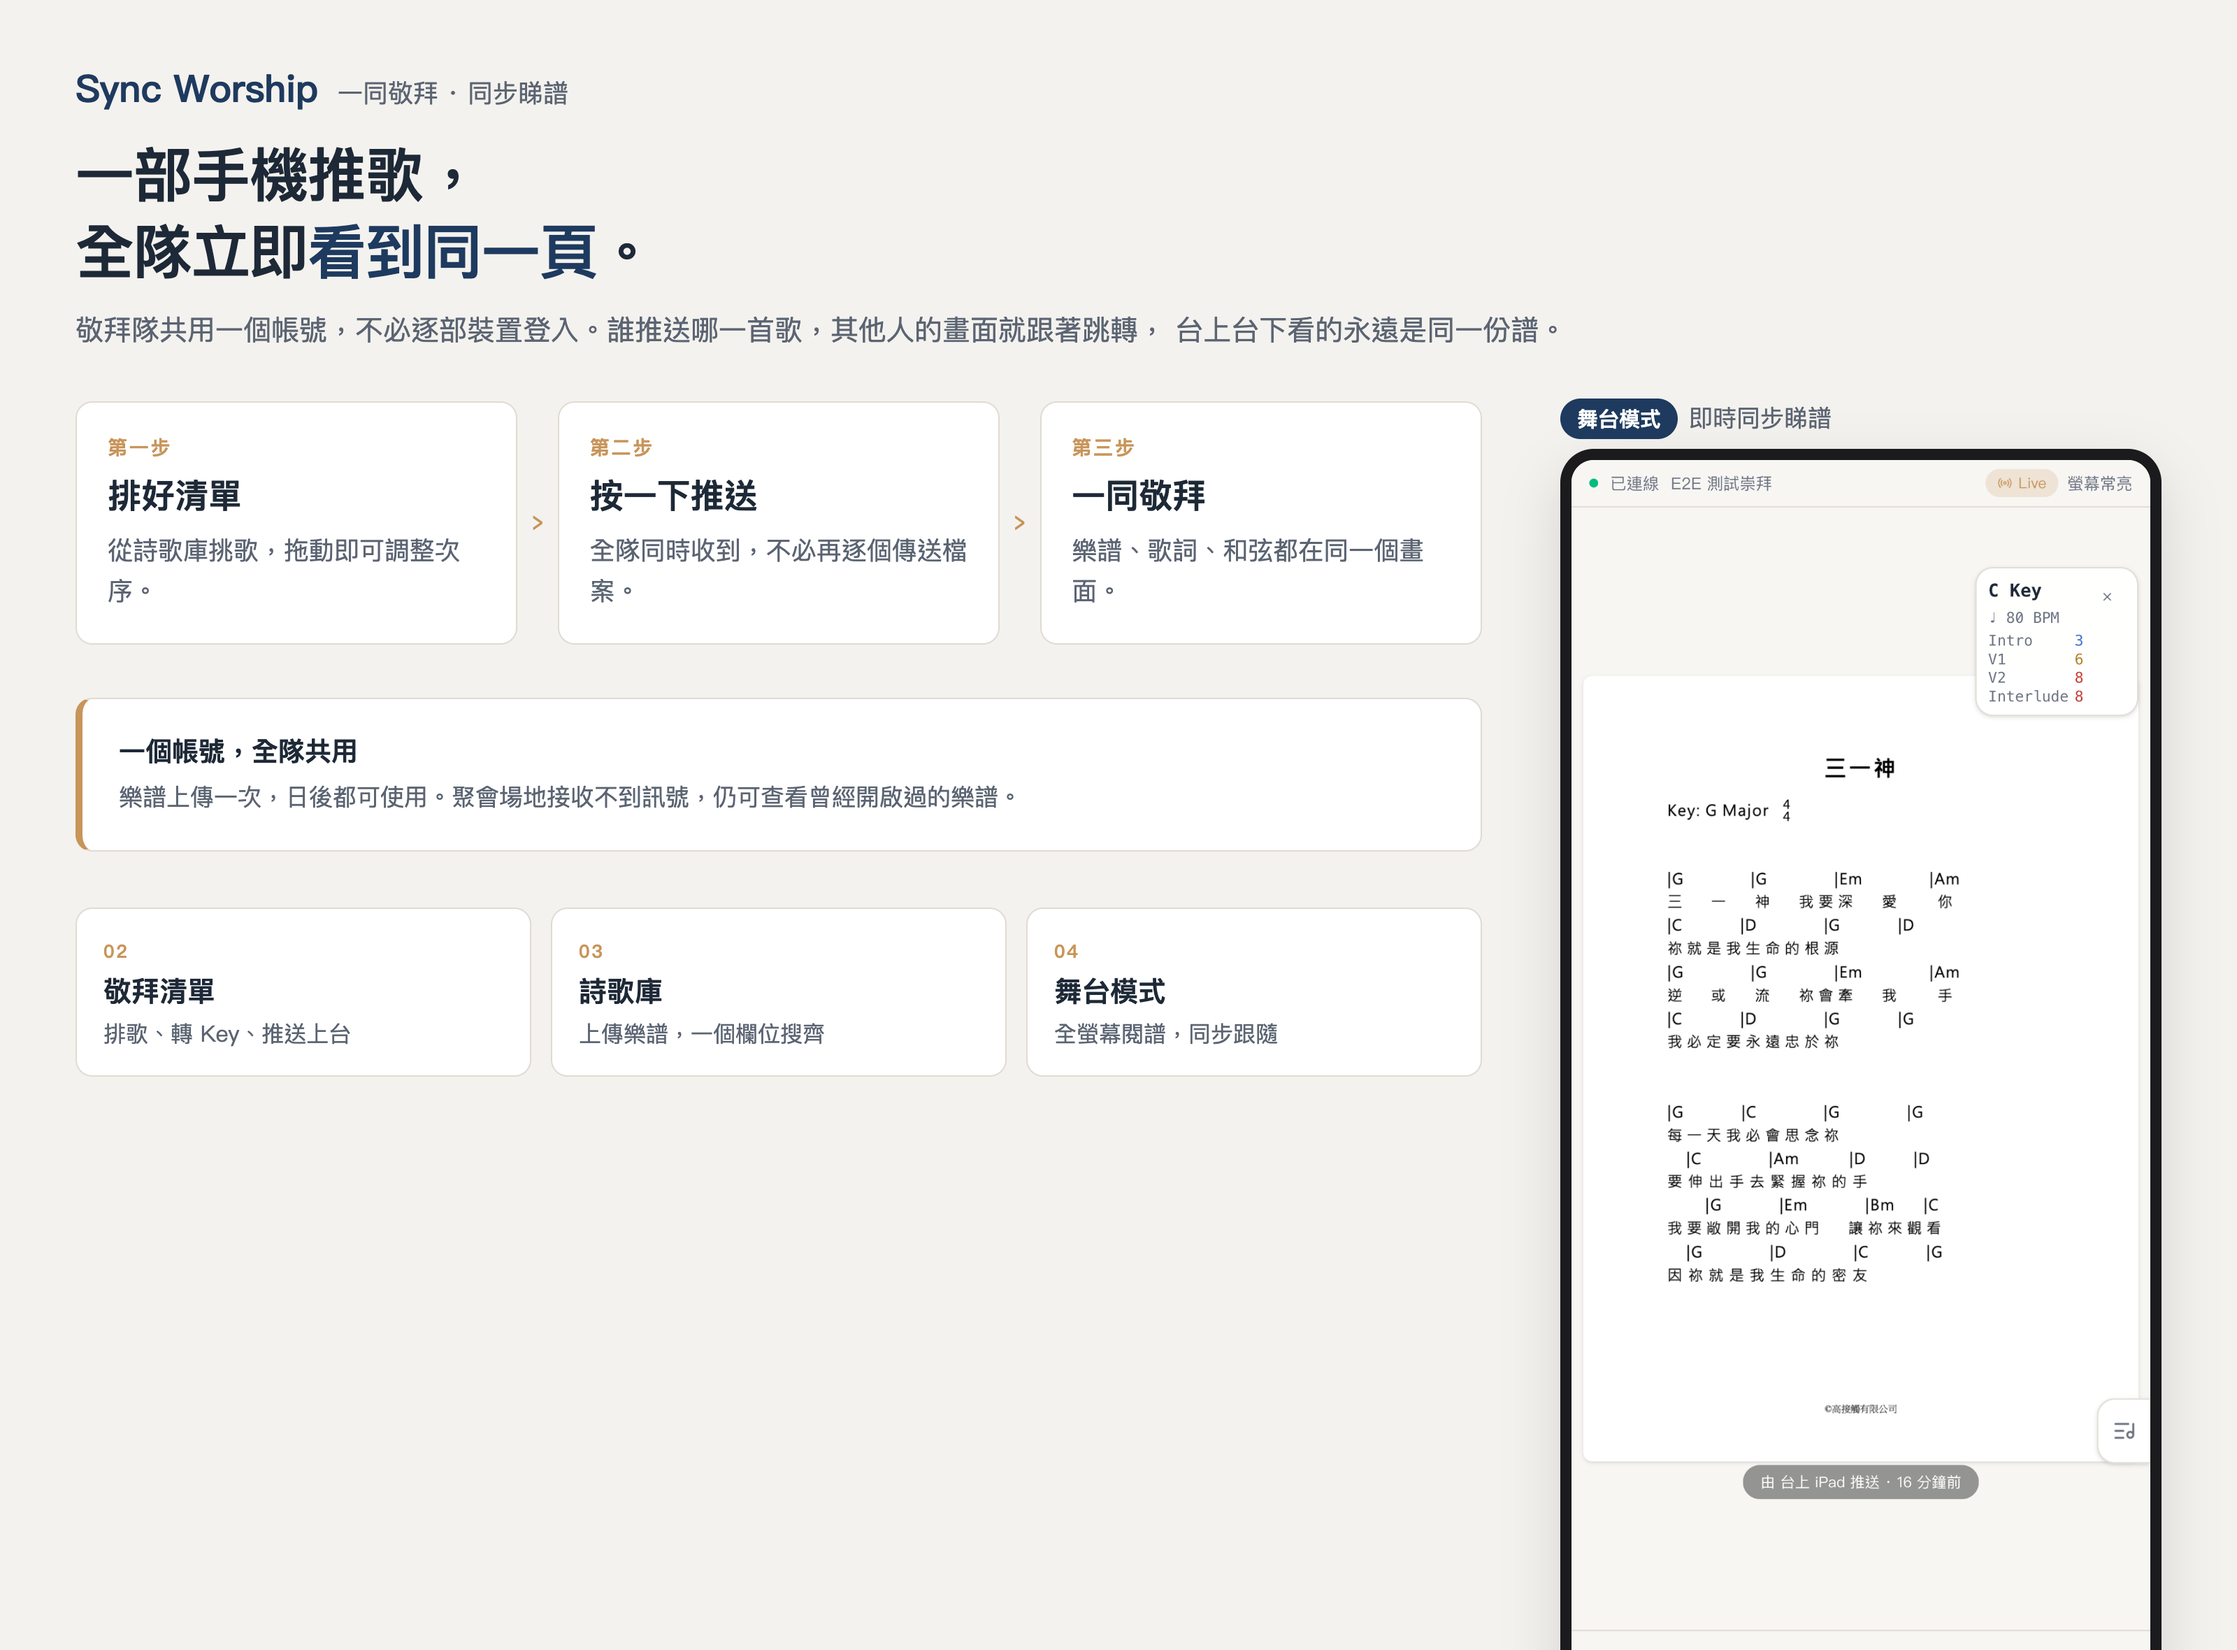
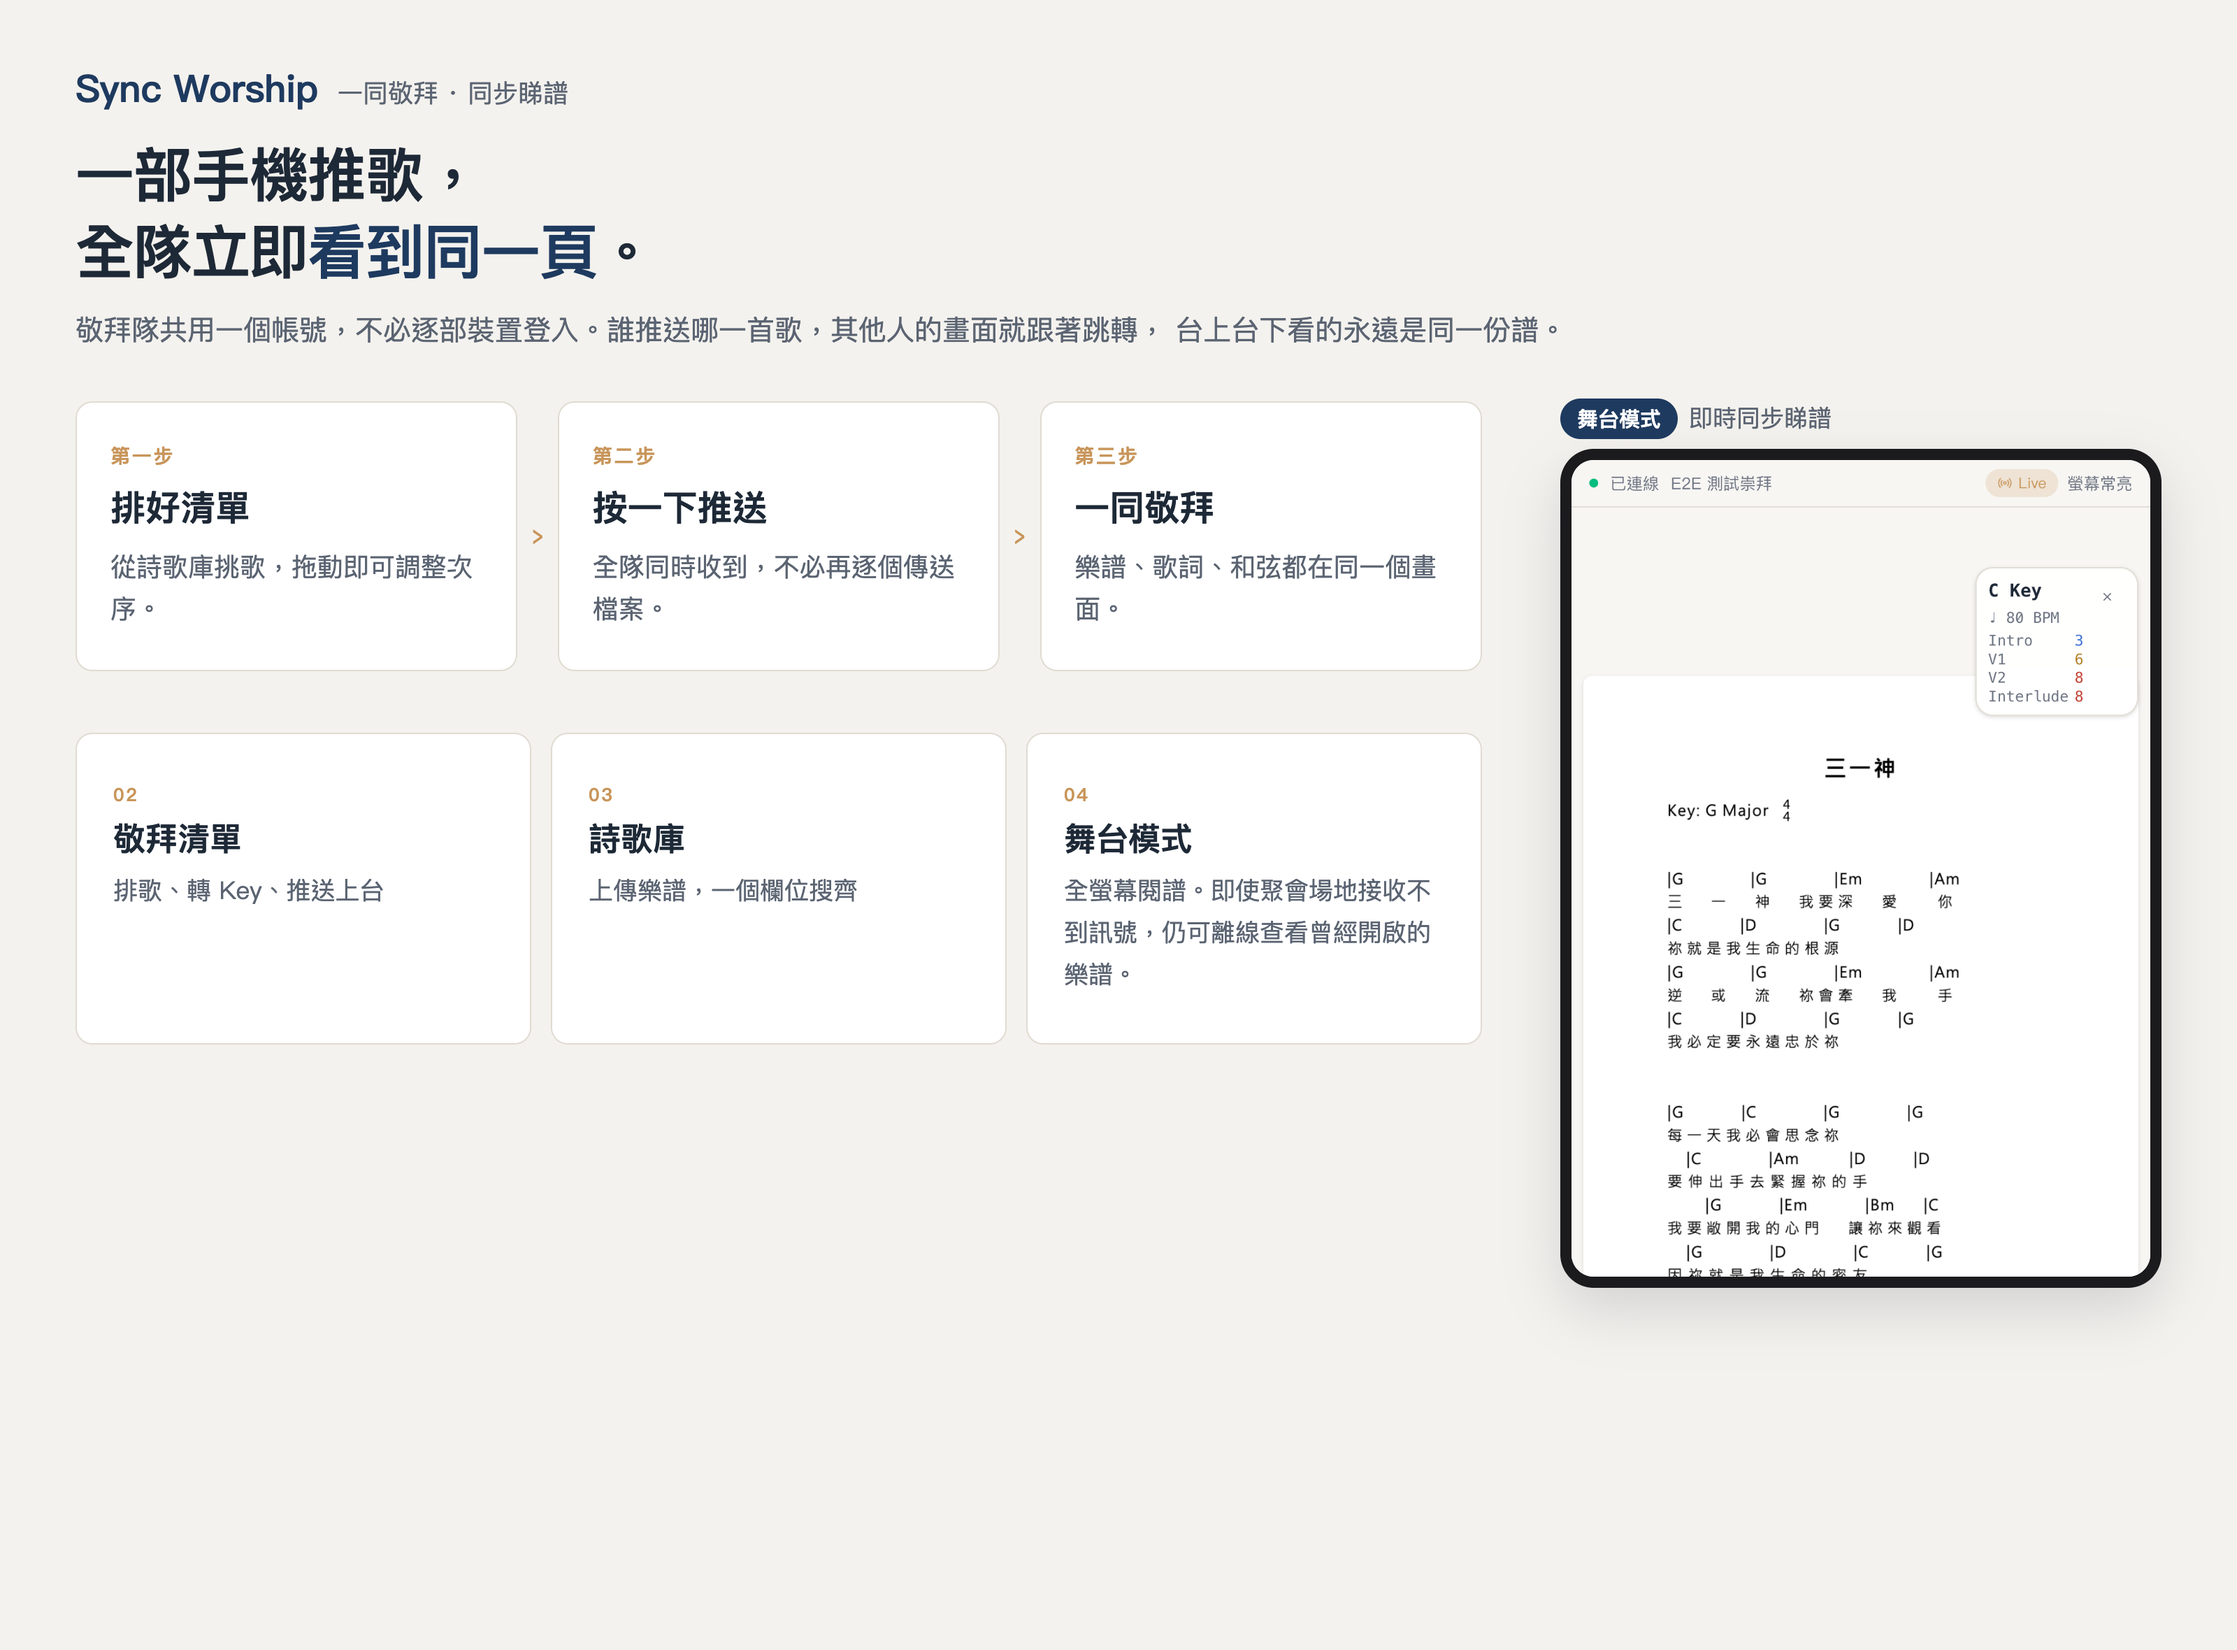
Guide p1: drop account box, move offline point into card 04

diff --git a/docs/p1-overview.html b/docs/p1-overview.html
@@ -7,20 +7,22 @@
 <style>
   .hero{display:grid; grid-template-columns:1fr 430px; gap:56px; margin-top:34px; align-items:start;}
   .flow{display:flex; gap:10px; align-items:stretch;}
-  .step{flex:1; background:var(--card); border:1px solid var(--line); border-radius:12px; padding:22px 22px;}
+  .step{flex:1; background:var(--card); border:1px solid var(--line); border-radius:12px; padding:28px 24px;}
   .step .n{font-size:14px; font-weight:700; color:var(--gold); letter-spacing:.1em;}
-  .step b{display:block; font-size:24px; margin:8px 0 9px;}
-  .step p{font-size:18px; color:var(--muted); line-height:1.6;}
+  .step b{display:block; font-size:25px; margin:9px 0 10px;}
+  .step p{font-size:18.5px; color:var(--muted); line-height:1.62;}
   .arw{display:grid; place-items:center; color:var(--gold); font-size:22px; flex:none;}
   .pages{display:grid; grid-template-columns:repeat(3,1fr); gap:14px; margin-top:40px;}
-  .pg{background:var(--card); border:1px solid var(--line); border-radius:12px; padding:18px 19px;}
+  .pg{background:var(--card); border:1px solid var(--line); border-radius:12px; padding:34px 26px;
+     display:flex; flex-direction:column; justify-content:flex-start;}
   .pg span{font-size:13px; font-weight:700; color:var(--gold); letter-spacing:.1em;}
-  .pg b{display:block; font-size:20px; margin:5px 0 4px;}
-  .pg p{font-size:16px; color:var(--muted); line-height:1.5;}
+  .pg b{display:block; font-size:23px; margin:7px 0 6px;}
+  .pg p{font-size:17.5px; color:var(--muted); line-height:1.72;}
 
   .phone{position:relative; border-radius:24px; overflow:hidden; background:#fff;
+         height:600px;
          border:8px solid #1b1b1e; box-shadow:0 16px 40px rgba(20,30,50,.15);}
-  .phone img{display:block; width:100%;}
+  .phone img{display:block; width:100%; height:100%; object-fit:cover; object-position:top;}
 </style>
 </head>
 <body>
@@ -58,15 +60,10 @@
       </div>
     </div>
 
-    <div class="box" style="margin-top:38px; padding:24px 26px">
-      <b>一個帳號，全隊共用</b>
-      <p>樂譜上傳一次，日後都可使用。聚會場地接收不到訊號，仍可查看曾經開啟過的樂譜。</p>
-    </div>
-
-    <div class="pages">
+    <div class="pages" style="margin-top:44px">
       <div class="pg"><span>02</span><b>敬拜清單</b><p>排歌、轉 Key、推送上台</p></div>
       <div class="pg"><span>03</span><b>詩歌庫</b><p>上傳樂譜，一個欄位搜齊</p></div>
-      <div class="pg"><span>04</span><b>舞台模式</b><p>全螢幕閱譜，同步跟隨</p></div>
+      <div class="pg"><span>04</span><b>舞台模式</b><p>全螢幕閱譜。即使聚會場地接收不到訊號，仍可離線查看曾經開啟的樂譜。</p></div>
     </div>
   </div>
 
